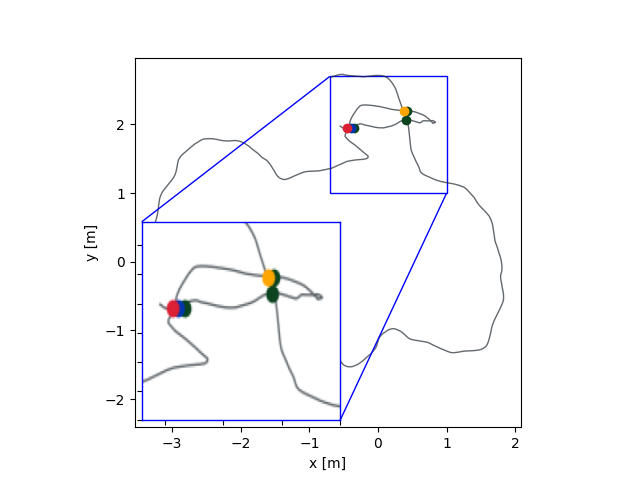
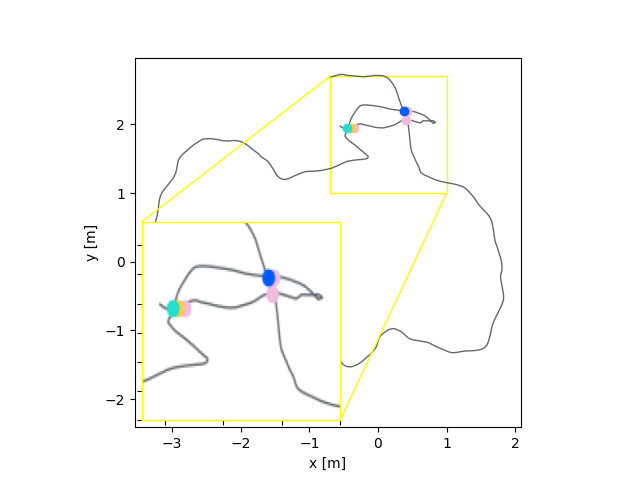
Made tests better

diff --git a/salgan/test.py b/salgan/test.py
@@ -7,20 +7,42 @@ import cv2
 import time
 
 
-
-if __name__ == "__main__":
-
-    predictor.start()
-    handler.readFolder('/root/ORB_FR1/')
-    filenames, frames, last = handler.getNewFrames(last=1)
-
+def runSalgan(name, targetframe, i=0):
+    handler.readFolder(name)
+    filenames, frames, last = handler.getNewFrames(first=targetframe, last=targetframe+1)
     predictor.loadModel()
     start_time = time.time()
     predictor.runSalgan(frames)
     elapsed_time = time.time()-start_time
-    
     print(f'Took {elapsed_time}')
-    keypoints = predictor.all_keypoints[0]
+    keypoints = predictor.all_keypoints[i]
+    handler.showKeyPoints(frames[0], keypoints, save=False, new=True)
+
+if __name__ == "__main__":
+
+    predictor.start()
+    runSalgan('/root/MONO_LONG/', 1450)
+
+
+    # runSuperpoint('/root/MONO_LONG/', 2200)
+    # runSuperpoint('/root/ORB_FR1/', 30)
+
+
+    # for i in range(10):
+    #     targetframe = ((i+40)*50)
+    #     runSuperpoint('/root/MONO_LONG/', targetframe, i)
+
+
+    # handler.readFolder('/root/ORB_FR1/')
+    # filenames, frames, last = handler.getNewFrames(last=1)
+
+    # predictor.loadModel()
+    # start_time = time.time()
+    # predictor.runSalgan(frames)
+    # elapsed_time = time.time()-start_time
+    
+    # print(f'Took {elapsed_time}')
+    # keypoints = predictor.all_keypoints[0]
     # if not os.path.exists('keypoints.png'):
     #     handler.readFolder('/root/ORB_FR1/')
     #     filenames, frames, last = handler.getNewFrames(last=4)
@@ -29,4 +51,4 @@ if __name__ == "__main__":
     # else:
     #     keypoints = []
     #     frames = [cv2.imread('keypoints.png')]
-    handler.showKeyPoints(frames[0], keypoints, save=True, new=True)
+    # handler.showKeyPoints(frames[0], keypoints, save=True, new=True)

diff --git a/common/handler.py b/common/handler.py
@@ -141,10 +141,11 @@ def showTrajectory(showGT = True, showLC=False, create = False):
     if create:
         print("\nComputing trajectory\n")
         black = col(33,41,48, 0.7)
-        lightblue = col(0, 53, 178, 1.0)
-        red = col(220, 32, 52, 1.0)
-        orange = col(255,165,0, 1.0)
-        green = col(11, 68, 31, 1.0)
+        lightblue = icol(0, 53, 178, 1.0)
+        red = icol(220, 32, 52, 1.0)
+        orange = icol(255,165,0, 1.0)
+        green = icol(11, 68, 31, 1.0)
+        blue = icol(0, 0, 255, 1.0)
 
         editGT = True
         if editGT:
@@ -222,7 +223,7 @@ def showTrajectory(showGT = True, showLC=False, create = False):
         # print(small_img.size)
         for axis in ['top','bottom','left','right']:
             axins.spines[axis].set_linewidth(1)
-            axins.spines[axis].set_color('b')
+            axins.spines[axis].set_color(blue)
 
         axins.imshow(small_img, extent=(pos[0], pos[1], pos[2], pos[3]),interpolation='bilinear', origin="upper")
 
@@ -232,7 +233,9 @@ def showTrajectory(showGT = True, showLC=False, create = False):
         plt.xticks(visible=False)
         plt.yticks(visible=False)
 
-        mark_inset(ax, axins, loc1=2, loc2=4, fc="none",  ec='b')
+        
+
+        mark_inset(ax, axins, loc1=2, loc2=4, fc="none",  ec=blue)
         # plt.draw()
         # ip = InsetPosition(ax,[0.7,0.7,0.3,0.3])
         # ax2.set_axes_locator(ip)
@@ -298,6 +301,10 @@ def showTrajectory(showGT = True, showLC=False, create = False):
 def getPointAt(txs, tzs, ind, shift = 0):
     index = int(ind*len(txs))
     return [txs[index]+ shift],[tzs[index]]
+
+def icol(r, g, b, a):
+    return col(255-r, 255-g, 255-b, a)
+
 def col(r, g, b, a):
     return list(np.array([r, g, b, a*255])/255)
 

diff --git a/superpoint/test.py b/superpoint/test.py
@@ -9,8 +9,6 @@ import time
 
 def runSuperpoint(name, targetframe, i=0):
     handler.readFolder(name)
-    # targetframe = 30
-    # handler.readFolder('/root/ORB_FR1/')
     filenames, frames, last = handler.getNewFrames(first=targetframe, last=targetframe+1)
     start_time = time.time()
     extractor.runSuperpoint(frames)
@@ -21,9 +19,12 @@ def runSuperpoint(name, targetframe, i=0):
 
 if __name__ == "__main__":
     extractor.start()
-
-    # runSuperpoint('/root/MONO_LONG/', 2200)
     runSuperpoint('/root/MONO_LONG/', 1450)
+
+
+
+    
+    # runSuperpoint('/root/MONO_LONG/', 2200)
     # runSuperpoint('/root/ORB_FR1/', 30)
 
 
